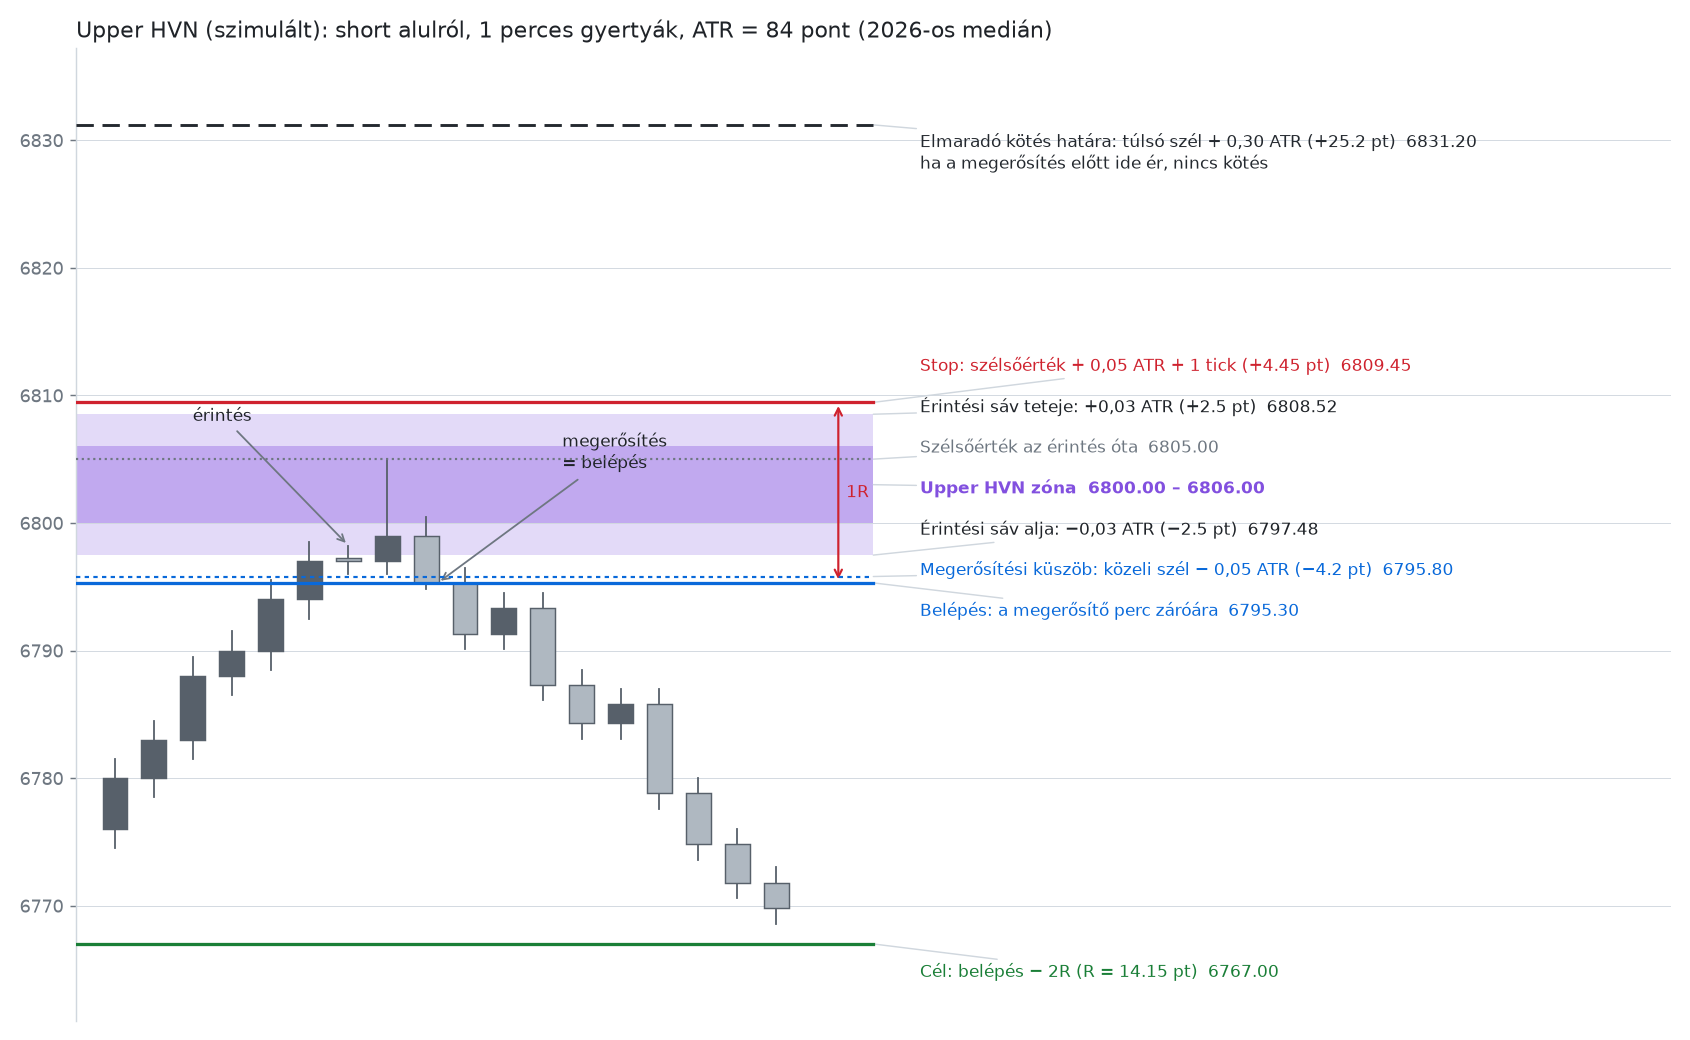
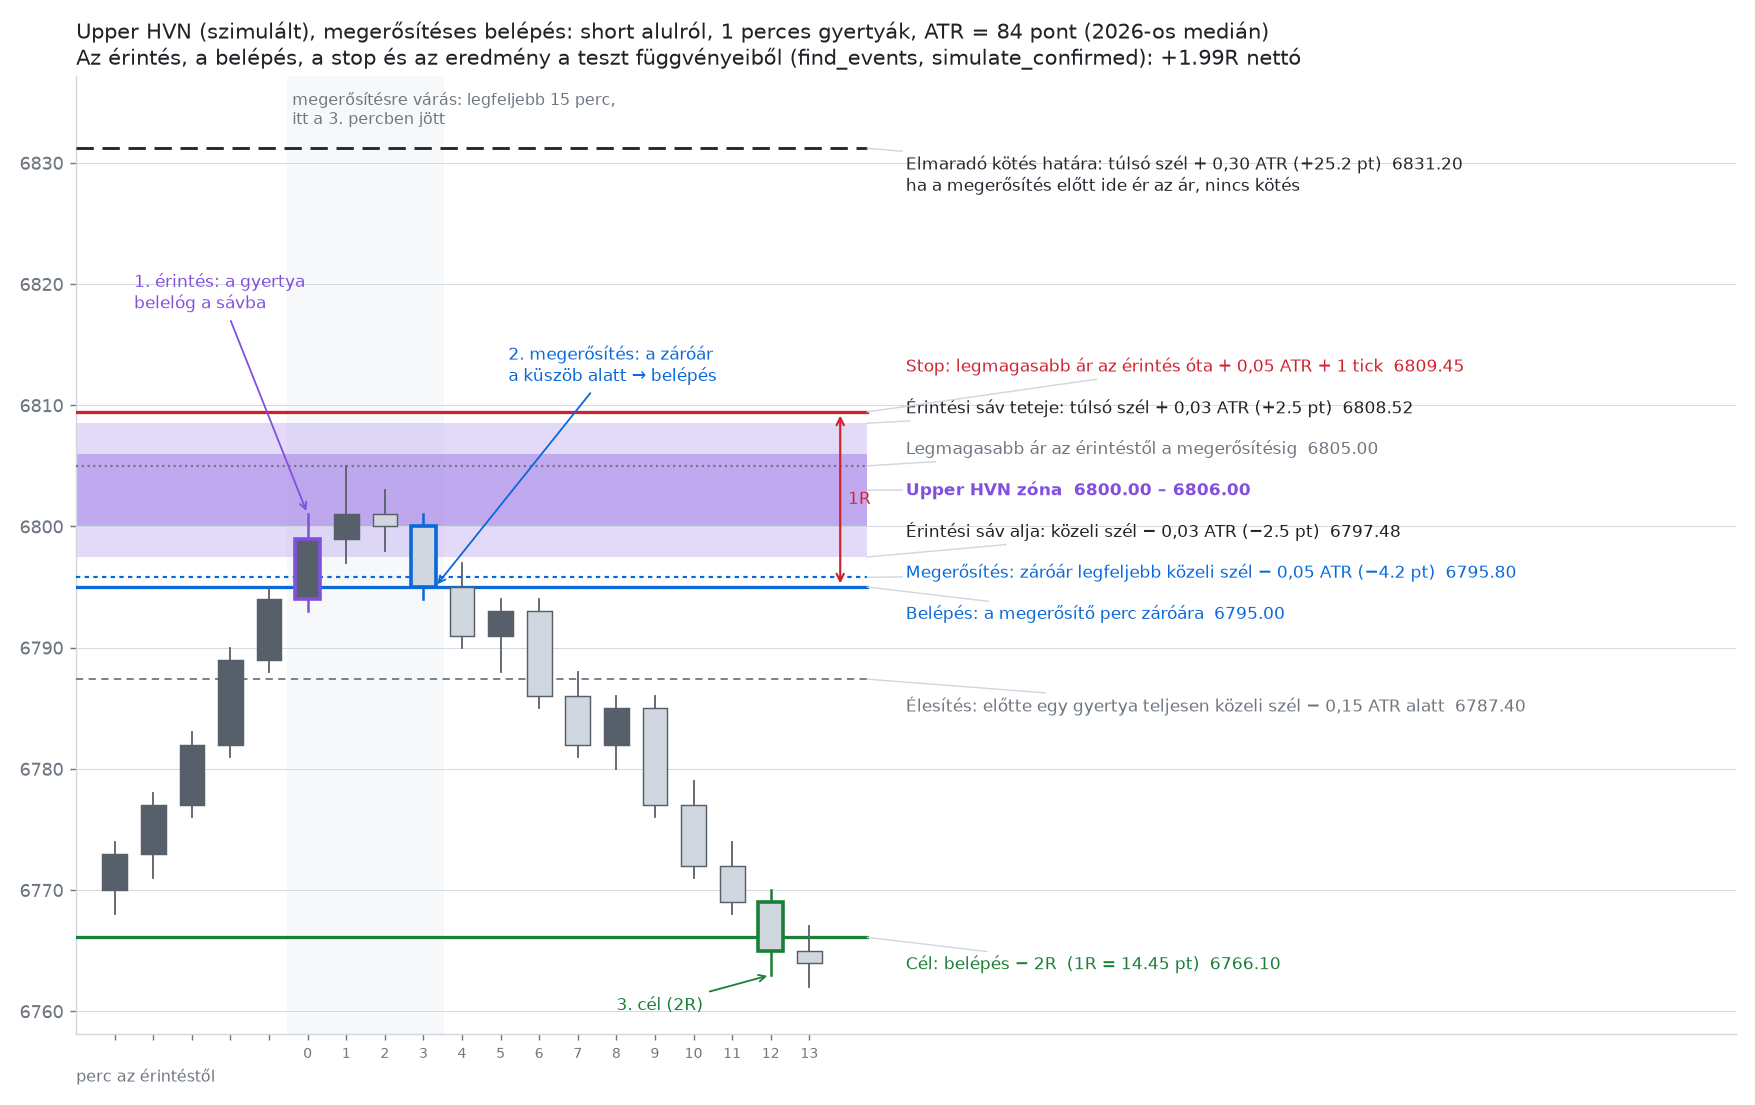
Rule schematic drawn from the event study functions (confirmation entry)
Claude-Session: https://claude.ai/code/session_011EaUaJc54y6EbgT3uiVZVQ

diff --git a/research/plot_rule.py b/research/plot_rule.py
@@ -1,9 +1,10 @@
-"""Schematic of the locked rule on a simulated Upper HVN and a VAH touch (short from below).
+"""The locked rule (confirmation entry) on a simulated Upper HVN and a VAH touch, short from below.
 
     python plot_rule.py <outDir>
 
-ATR 84 points (2026 median): touch band +-0.03 ATR, confirmation close 0.05 ATR beyond the near edge, stop the
-extreme + 0.05 ATR + 1 tick, no trade if the price goes 0.30 ATR beyond the far edge before the confirmation.
+The touch, the entry, the stop and the result come from the event study functions themselves (find_events,
+simulate_confirmed) run on the drawn 1 minute bars, so the picture is the tested version. ATR 84 points (2026
+median).
 """
 import os
 import sys
@@ -11,37 +12,38 @@ import sys
 import matplotlib
 matplotlib.use("Agg")
 import matplotlib.pyplot as plt
+import numpy as np
 
-ATR, TICK = 84.0, 0.25
+import event_study as es
+
+ATR = 84.0
 INK, MUTED, GRID = "#1f2328", "#6e7781", "#d0d7de"
-ZONE, BAND, STOP, CANCEL, ENTRY, TARGET = "#8250df", "#c8b6f2", "#cf222e", "#24292f", "#0969da", "#1a7f37"
+ZONE, BAND, STOP, CANCEL, ENTRY, TARGET, WINDOW = "#8250df", "#c8b6f2", "#cf222e", "#24292f", "#0969da", "#1a7f37", "#f6f8fa"
+
+# o, h, l, c relative to the zone low: armed far below, rising, touch, wick to the extreme, confirmation close, target
+BASE = [(-30, -26, -32, -27), (-27, -22, -29, -23), (-23, -17, -24, -18), (-18, -10, -19, -11), (-11, -5, -12, -6),
+        (-6, 1, -7, -1), (-1, None, -3, 1), (1, 3, -2, 0), (0, 1, -6, -5),
+        (-5, -3, -10, -9), (-9, -6, -12, -7), (-7, -6, -15, -14), (-14, -12, -19, -18), (-18, -14, -20, -15),
+        (-15, -14, -24, -23), (-23, -21, -29, -28), (-28, -26, -32, -31), (-31, -30, -37, -35), (-35, -33, -38, -36)]
 
 
-def candles(ax, bars):
-    for x, (o, h, l, c) in enumerate(bars):
-        color = "#57606a" if c >= o else "#afb8c1"
-        ax.plot([x, x], [l, h], color="#57606a", lw=1, zorder=3)
-        ax.add_patch(plt.Rectangle((x - 0.32, min(o, c)), 0.64, max(abs(c - o), 0.3), color=color, ec="#57606a",
-                                   lw=0.8, zorder=4))
+def make_bars(zlow, extreme):
+    bars = [(o, extreme - zlow if h is None else h, l, c) for o, h, l, c in BASE]
+    a = np.array(bars, float) + zlow
+    return a[:, 0], a[:, 1], a[:, 2], a[:, 3]
 
 
-def bars_for(near, band, extreme, entry):
-    """Approach from below, the touch of the band, a wick to the extreme, the confirmation close, the move down."""
-    p = near - 24
-    out = []
-    for step in (4, 3, 5, 2, 4, 3):
-        out.append((p, p + step + 1.5, p - 1.5, p + step)); p += step
-    out.append((p, near - band + 0.75, p - 1, near - band - 0.5))            # touch: the high reaches the band
-    out.append((near - band - 0.5, extreme, near - band - 1.5, near - 1.0))  # wick to the extreme
-    out.append((near - 1.0, near + 0.5, entry - 0.5, entry))                 # confirmation close = entry
-    p = entry
-    for step in (-4, 2, -6, -3, 1.5, -7, -4, -3, -2):
-        out.append((p, max(p, p + step) + 1.2, min(p, p + step) - 1.2, p + step)); p += step
-    return out
+def candles(ax, o, h, l, c, highlight):
+    for x in range(len(o)):
+        edge = highlight.get(x, "#57606a")
+        ax.plot([x, x], [l[x], h[x]], color=edge, lw=1.4 if x in highlight else 1, zorder=4)
+        ax.add_patch(plt.Rectangle((x - 0.32, min(o[x], c[x])), 0.64, max(abs(c[x] - o[x]), 0.3),
+                                   facecolor="#57606a" if c[x] >= o[x] else "#d0d7de", edgecolor=edge,
+                                   lw=2 if x in highlight else 0.8, zorder=5))
 
 
 def spread(items, gap):
-    """Label y positions without overlap (items sorted by y, at least gap apart)."""
+    """Label y positions without overlap."""
     items = sorted(items, key=lambda i: i[0])
     ys = []
     for y, *_ in items:
@@ -53,69 +55,82 @@ def spread(items, gap):
     return [(y_label, *item) for y_label, item in zip(ys, items)]
 
 
-def draw(path, title, zlow, zhigh, extreme):
-    band = 0.03 * ATR
-    near, far = zlow, zhigh                      # short from below: the near edge is the zone low
-    confirm = near - 0.05 * ATR
-    entry = confirm - 0.5                        # the confirmation close
-    stop = extreme + 0.05 * ATR + TICK
-    cancel = far + 0.30 * ATR
-    risk = stop - entry
+def draw(path, name, zlow, zhigh, extreme):
+    o, h, l, c = make_bars(zlow, extreme)
+    n = len(o)
+    idx, sides = es.find_events(h, l, c, np.ones(n, bool), zlow, zhigh, ATR)
+    assert len(idx) == 1 and sides[0] == -1, (idx, sides)
+    i = int(idx[0])
+    res = es.simulate_confirmed(h, l, c, i, -1, zlow, zhigh, ATR)
+    assert res is not None
+    k = i + res["fill_delay"]
+    entry, stop, risk = res["entry"], res["stop"], res["risk"]
+    high_since = h[i:k + 1].max()
     target = entry - 2 * risk
-    bars = bars_for(near, band, extreme, entry)
-    n = len(bars)
+    band, rearm = es.TOLERANCE * ATR, es.REARM * ATR
+    confirm = zlow - es.CONFIRM_DISTANCE * ATR
+    cancel = zhigh + es.ACCEPTANCE * ATR
+    exit_bar = k + 1 + int(np.argmax(l[k + 1:] <= target))
 
-    fig, ax = plt.subplots(figsize=(13, 8), dpi=130)
+    fig, ax = plt.subplots(figsize=(13.5, 8.5), dpi=130)
     fig.patch.set_facecolor("white")
     ax.set_facecolor("white")
-    ax.fill_between([-1, n + 1.5], zlow - band, zhigh + band, color=BAND, alpha=0.5, lw=0, zorder=1)
+    x_end = n + 0.5
+    ax.axvspan(i - 0.5, k + 0.5, color=WINDOW, zorder=0)
+    ax.fill_between([-1, x_end], zlow - band, zhigh + band, color=BAND, alpha=0.5, lw=0, zorder=1)
     if zhigh > zlow:
-        ax.fill_between([-1, n + 1.5], zlow, zhigh, color=ZONE, alpha=0.35, lw=0, zorder=2)
+        ax.fill_between([-1, x_end], zlow, zhigh, color=ZONE, alpha=0.35, lw=0, zorder=2)
     else:
-        ax.plot([-1, n + 1.5], [zlow, zlow], color=ZONE, lw=2.5, zorder=2)
-    candles(ax, bars)
+        ax.plot([-1, x_end], [zlow, zlow], color=ZONE, lw=2.5, zorder=2)
+    candles(ax, o, h, l, c, {i: ZONE, k: ENTRY, exit_bar: TARGET})
 
-    x_end = n + 1.5
-    lines = [(cancel, CANCEL, (0, (6, 3)), 1.6),
-             (stop, STOP, "-", 1.8), (extreme, MUTED, ":", 1.2),
-             (confirm, ENTRY, (0, (2, 2)), 1.2), (entry, ENTRY, "-", 1.8), (target, TARGET, "-", 1.8)]
+    lines = [(cancel, CANCEL, (0, (6, 3)), 1.6), (stop, STOP, "-", 1.8), (high_since, MUTED, ":", 1.2),
+             (confirm, ENTRY, (0, (2, 2)), 1.2), (entry, ENTRY, "-", 1.8), (zlow - rearm, MUTED, (0, (4, 3)), 1.0),
+             (target, TARGET, "-", 1.8)]
     for y, color, style, lw in lines:
-        ax.plot([-1, x_end], [y, y], color=color, ls=style, lw=lw, zorder=5)
-    zone_name = title.split(" (")[0]
+        ax.plot([-1, x_end], [y, y], color=color, ls=style, lw=lw, zorder=3)
+    zone_text = f"{name} zóna  {zlow:.2f} – {zhigh:.2f}" if zhigh > zlow else f"{name} szint  {zlow:.2f}"
     labels = [
         (cancel, CANCEL, f"Elmaradó kötés határa: túlsó szél + 0,30 ATR (+{0.30 * ATR:.1f} pt)  {cancel:.2f}\n"
-                         "ha a megerősítés előtt ide ér, nincs kötés"),
-        (stop, STOP, f"Stop: szélsőérték + 0,05 ATR + 1 tick (+{0.05 * ATR + TICK:.2f} pt)  {stop:.2f}"),
-        (extreme, MUTED, f"Szélsőérték az érintés óta  {extreme:.2f}"),
-        (zhigh + band, INK, f"Érintési sáv teteje: +0,03 ATR (+{band:.1f} pt)  {zhigh + band:.2f}"),
-        ((zlow + zhigh) / 2, ZONE, f"{zone_name} " + (f"zóna  {zlow:.2f} – {zhigh:.2f}" if zhigh > zlow
-                                                      else f"szint  {zlow:.2f}")),
-        (zlow - band, INK, f"Érintési sáv alja: −0,03 ATR (−{band:.1f} pt)  {zlow - band:.2f}"),
-        (confirm, ENTRY, f"Megerősítési küszöb: közeli szél − 0,05 ATR (−{0.05 * ATR:.1f} pt)  {confirm:.2f}"),
+                         "ha a megerősítés előtt ide ér az ár, nincs kötés"),
+        (stop, STOP, f"Stop: legmagasabb ár az érintés óta + 0,05 ATR + 1 tick  {stop:.2f}"),
+        (high_since, MUTED, f"Legmagasabb ár az érintéstől a megerősítésig  {high_since:.2f}"),
+        (zhigh + band, INK, f"Érintési sáv teteje: túlsó szél + 0,03 ATR (+{band:.1f} pt)  {zhigh + band:.2f}"),
+        ((zlow + zhigh) / 2, ZONE, zone_text),
+        (zlow - band, INK, f"Érintési sáv alja: közeli szél − 0,03 ATR (−{band:.1f} pt)  {zlow - band:.2f}"),
+        (confirm, ENTRY, f"Megerősítés: záróár legfeljebb közeli szél − 0,05 ATR (−{0.05 * ATR:.1f} pt)  {confirm:.2f}"),
         (entry, ENTRY, f"Belépés: a megerősítő perc záróára  {entry:.2f}"),
-        (target, TARGET, f"Cél: belépés − 2R (R = {risk:.2f} pt)  {target:.2f}"),
+        (zlow - rearm, MUTED, f"Élesítés: előtte egy gyertya teljesen közeli szél − 0,15 ATR alatt  {zlow - rearm:.2f}"),
+        (target, TARGET, f"Cél: belépés − 2R  (1R = {risk:.2f} pt)  {target:.2f}"),
     ]
-    span = (cancel + 6) - (target - 6)
-    for y_label, y, color, text in spread(labels, span * 0.042):
-        ax.annotate(text, (x_end, y), (x_end + 1.2, y_label), va="center", ha="left", fontsize=9.5, color=color,
+    span = (cancel + 6) - (target - 8)
+    for y_label, y, color, text in spread(labels, span * 0.043):
+        ax.annotate(text, (x_end, y), (x_end + 1.0, y_label), va="center", ha="left", fontsize=9.3, color=color,
                     fontweight="bold" if color == ZONE else "normal",
                     arrowprops=dict(arrowstyle="-", color=GRID, lw=0.8, shrinkA=0, shrinkB=0))
-    ax.annotate("érintés", (6, near - band + 0.75), (2.0, near + 8), fontsize=9.5, color=INK,
-                arrowprops=dict(arrowstyle="->", color=MUTED))
-    ax.annotate("megerősítés\n= belépés", (8.3, entry), (11.5, entry + 9), fontsize=9.5, color=INK,
-                arrowprops=dict(arrowstyle="->", color=MUTED))
-    ax.annotate("", (n + 0.6, stop), (n + 0.6, entry), arrowprops=dict(arrowstyle="<->", color=STOP, lw=1.2))
-    ax.text(n + 0.8, (stop + entry) / 2, "1R", color=STOP, fontsize=9.5, va="center")
-    ax.set_xlim(-1, n + 22)
-    ax.set_ylim(target - 6, cancel + 6)
-    ax.set_xticks([])
+    ax.annotate("1. érintés: a gyertya\nbelelóg a sávba", (i, h[i]), (i - 4.5, zhigh + 12), fontsize=9.3, color=ZONE,
+                arrowprops=dict(arrowstyle="->", color=ZONE))
+    ax.annotate("2. megerősítés: a záróár\na küszöb alatt → belépés", (k + 0.3, entry), (k + 2.2, zhigh + 6),
+                fontsize=9.3, color=ENTRY, arrowprops=dict(arrowstyle="->", color=ENTRY))
+    ax.annotate("3. cél (2R)", (exit_bar, l[exit_bar]), (exit_bar - 4, target - 6), fontsize=9.3, color=TARGET,
+                arrowprops=dict(arrowstyle="->", color=TARGET))
+    ax.text(i - 0.4, cancel + 2, f"megerősítésre várás: legfeljebb 15 perc,\nitt a {k - i}. percben jött", fontsize=8.8, color=MUTED)
+    ax.annotate("", (n - 0.2, stop), (n - 0.2, entry), arrowprops=dict(arrowstyle="<->", color=STOP, lw=1.2))
+    ax.text(n, (stop + entry) / 2, "1R", color=STOP, fontsize=9.3, va="center")
+    ax.set_xlim(-1, n + 23)
+    ax.set_ylim(target - 8, cancel + 6)
+    ax.set_xticks(range(n))
+    ax.set_xticklabels([str(x - i) if x >= i else "" for x in range(n)], fontsize=8, color=MUTED)
+    ax.set_xlabel("perc az érintéstől", color=MUTED, fontsize=9, loc="left")
     ax.grid(axis="y", color=GRID, lw=0.5)
-    for side in ("top", "right", "bottom"):
-        ax.spines[side].set_visible(False)
-    ax.spines["left"].set_color(GRID)
+    for s in ("top", "right"):
+        ax.spines[s].set_visible(False)
+    for s in ("left", "bottom"):
+        ax.spines[s].set_color(GRID)
     ax.tick_params(colors=MUTED)
-    ax.set_title(f"{title}: short alulról, 1 perces gyertyák, ATR = {ATR:.0f} pont (2026-os medián)", loc="left",
-                 color=INK, fontsize=12)
+    ax.set_title(f"{name} (szimulált), megerősítéses belépés: short alulról, 1 perces gyertyák, ATR = {ATR:.0f} pont "
+                 f"(2026-os medián)\nAz érintés, a belépés, a stop és az eredmény a teszt függvényeiből "
+                 f"(find_events, simulate_confirmed): +{res['r2']:.2f}R nettó", loc="left", color=INK, fontsize=11.5)
     fig.tight_layout()
     fig.savefig(path)
     plt.close(fig)
@@ -124,5 +139,5 @@ def draw(path, title, zlow, zhigh, extreme):
 if __name__ == "__main__":
     out = sys.argv[1]
     os.makedirs(out, exist_ok=True)
-    draw(os.path.join(out, "rule_upper_hvn.png"), "Upper HVN (szimulált)", 6800.0, 6806.0, 6805.0)
-    draw(os.path.join(out, "rule_vah.png"), "VAH (szimulált)", 6850.0, 6850.0, 6852.0)
+    draw(os.path.join(out, "rule_upper_hvn.png"), "Upper HVN", 6800.0, 6806.0, 6805.0)
+    draw(os.path.join(out, "rule_vah.png"), "VAH", 6850.0, 6850.0, 6853.0)
